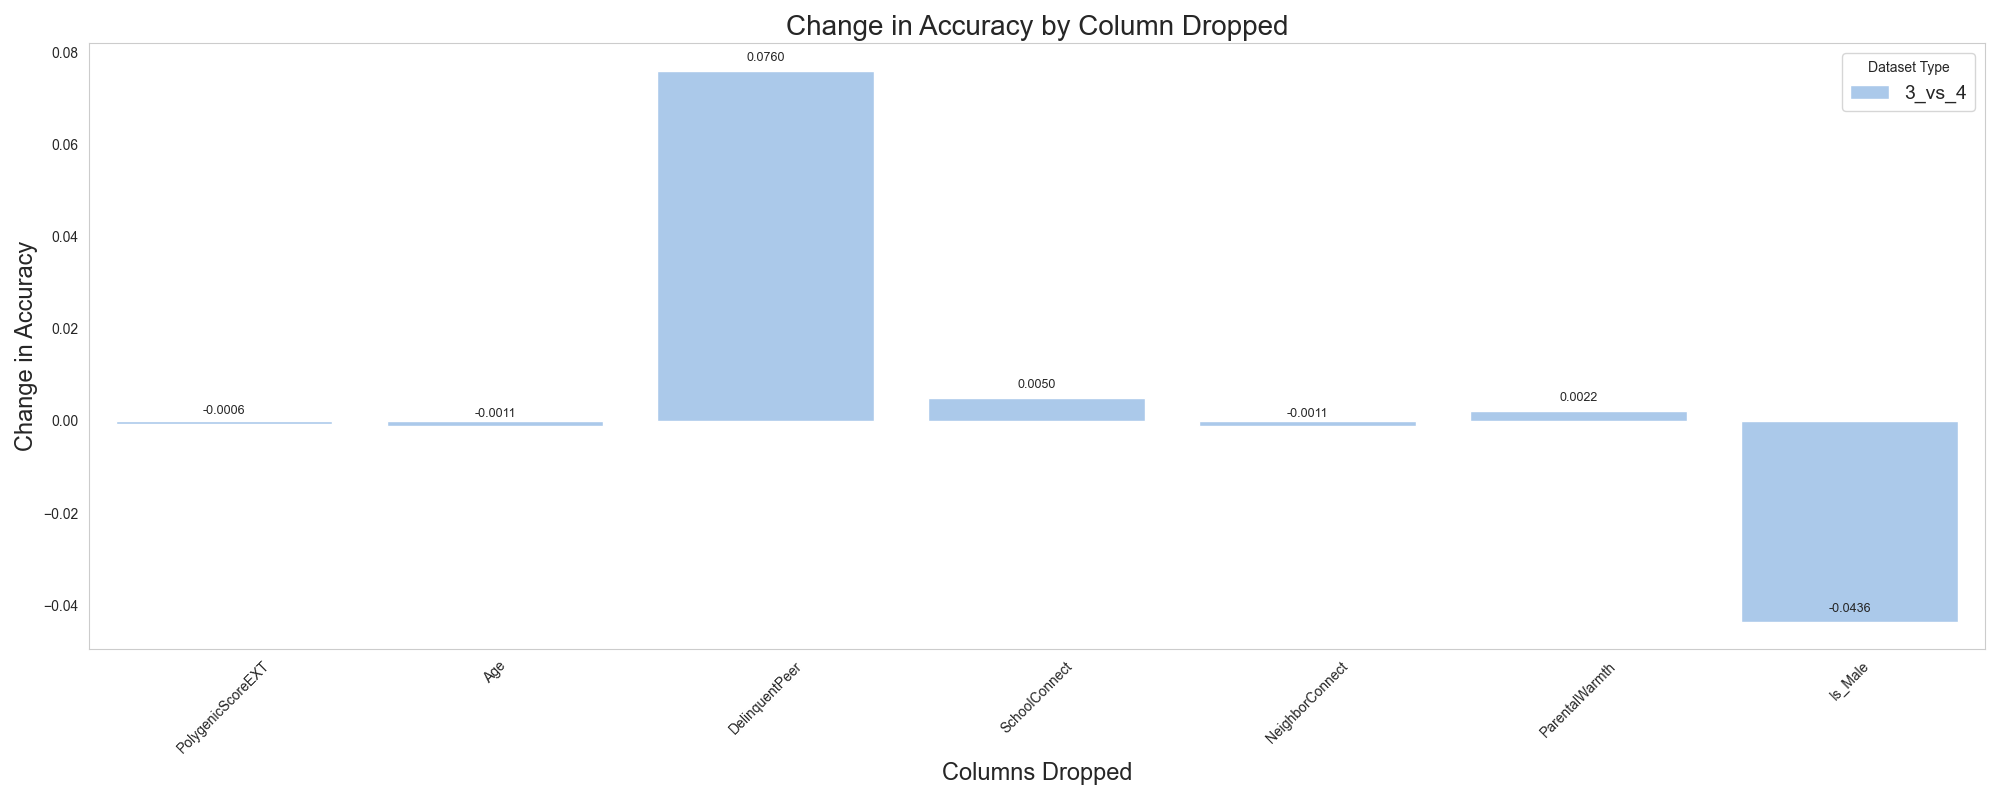
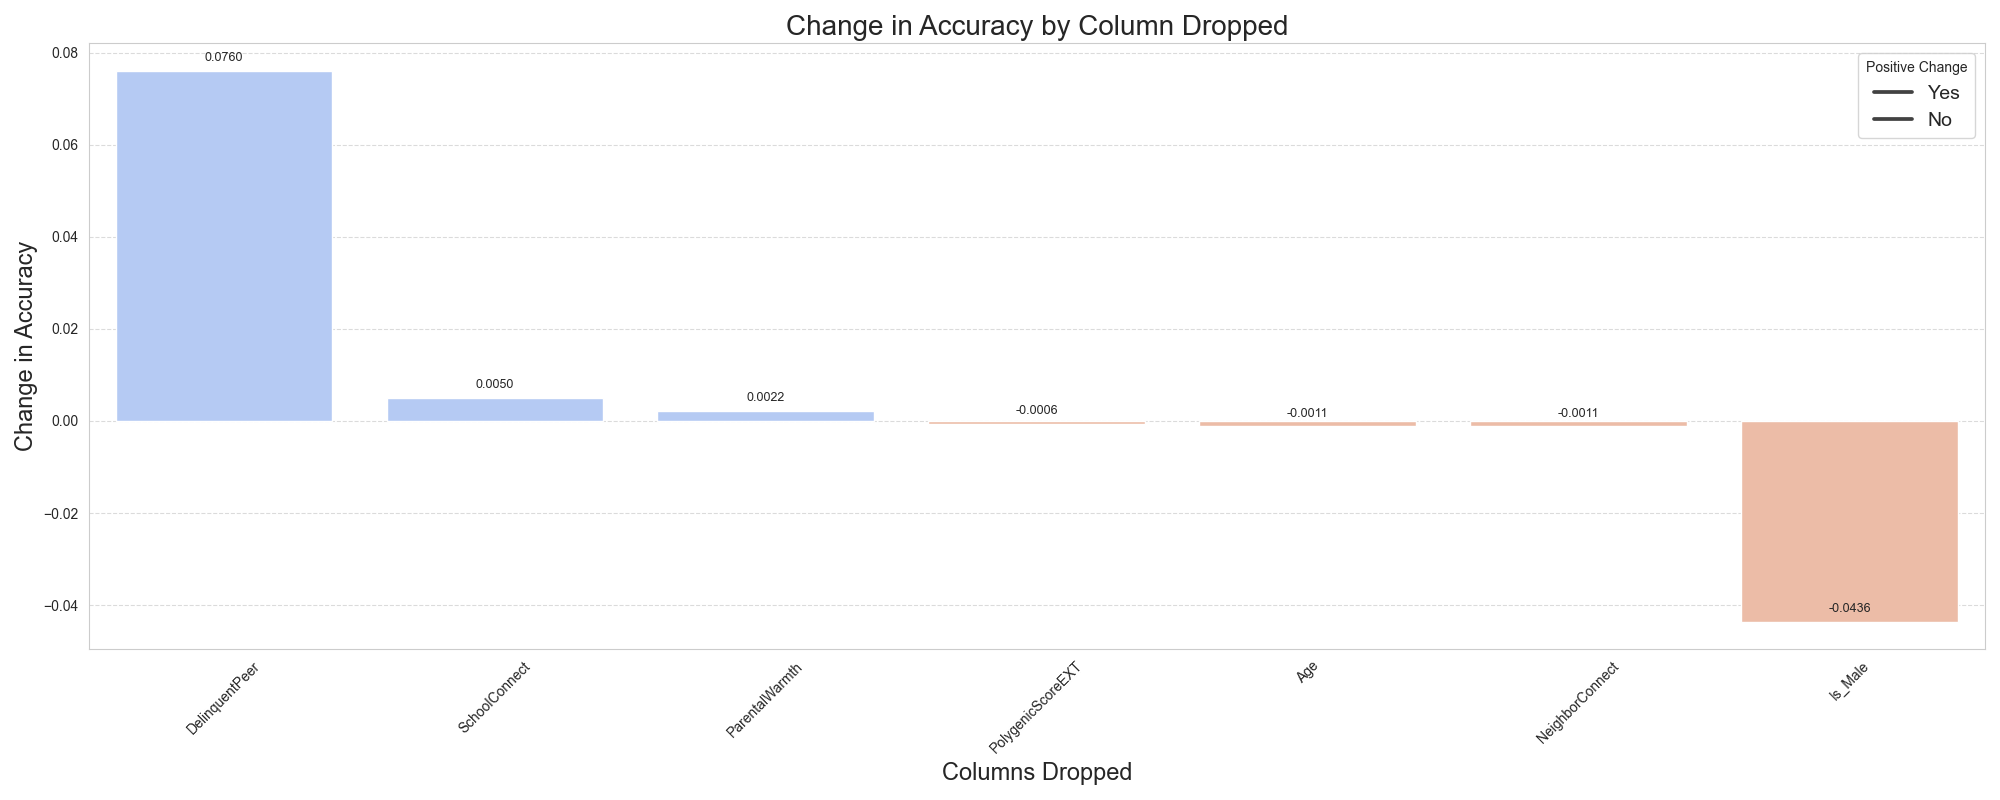
Drop column analysis

diff --git a/Phase_1/project_scripts/evaluation/drop column analysis/drop_column_analysis.py b/Phase_1/project_scripts/evaluation/drop column analysis/drop_column_analysis.py
@@ -28,7 +28,6 @@ def visualize_results(df, metric, key):
     """
     # Set style for the plots
     sns.set_style("whitegrid")
-    sns.set_palette("pastel")
 
     # Function to annotate the bars
     def annotate_bars(ax):
@@ -50,17 +49,24 @@ def visualize_results(df, metric, key):
         ylabel = "Change in Custom Score"
         save_name = "custom_score_drop_column"
 
+    # Sort the dataframe by the metric for better visualization
+    df = df.sort_values(by=y_col, ascending=False)
+
+    # Decide color palette based on positive or negative change
+    df["positive_change"] = df[y_col] > 0
+    palette = sns.color_palette("coolwarm_r", 2)
+
     # Bar plot for given metric
     plt.figure(figsize=(20, 8))
-    ax1 = sns.barplot(data=df, x="column_dropped", y=y_col, hue="type")
+    ax1 = sns.barplot(data=df, x="column_dropped", y=y_col, hue="positive_change", palette=palette, dodge=False)
     plt.title(f"Change in {metric} by Column Dropped", fontsize=20)
     plt.xlabel("Columns Dropped", fontsize=17)
     plt.ylabel(ylabel, fontsize=17)
     plt.xticks(rotation=45)
-    plt.legend(title="Dataset Type", loc="upper right", fontsize=14)
+    plt.legend(title="Positive Change", loc="upper right", fontsize=14, labels=['Yes', 'No'])
     annotate_bars(ax1)
     plt.tight_layout()
-    plt.grid(axis='y')
+    plt.grid(axis='y', linestyle='--', alpha=0.7)
     plt.savefig(os.path.join(RESULTS_DIR, f"{save_name}_{key}.png"))
     plt.close()
 
